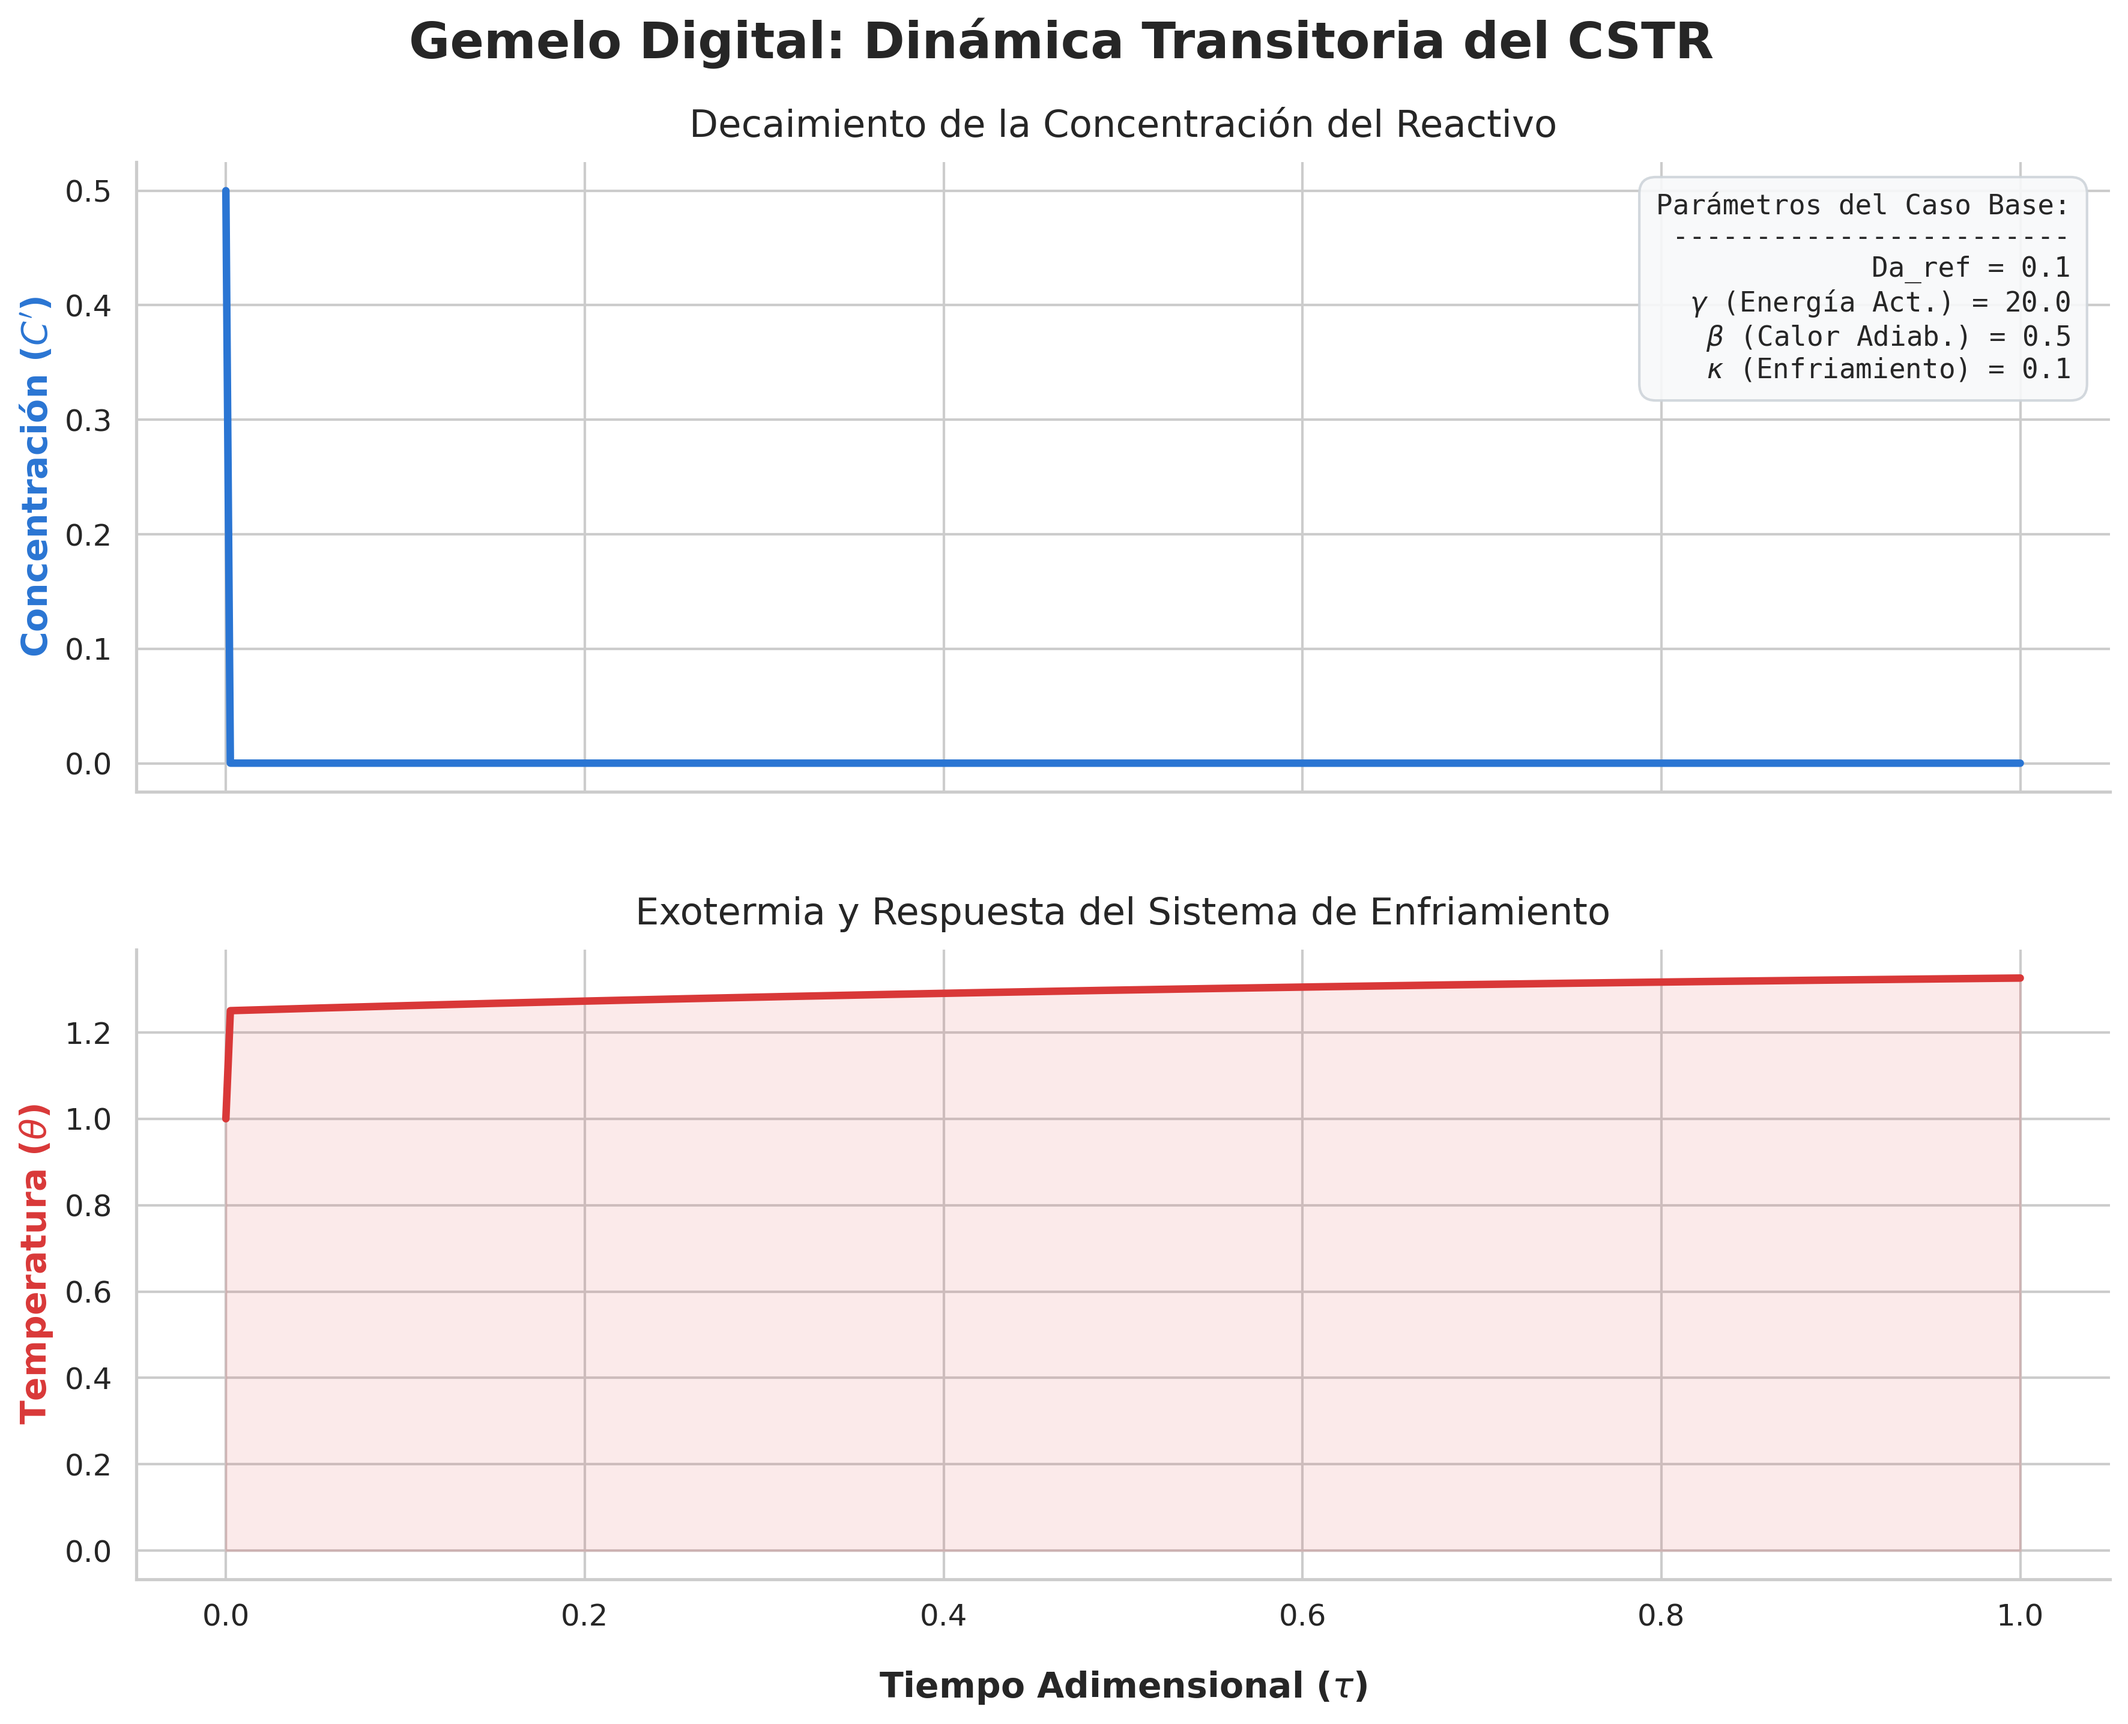
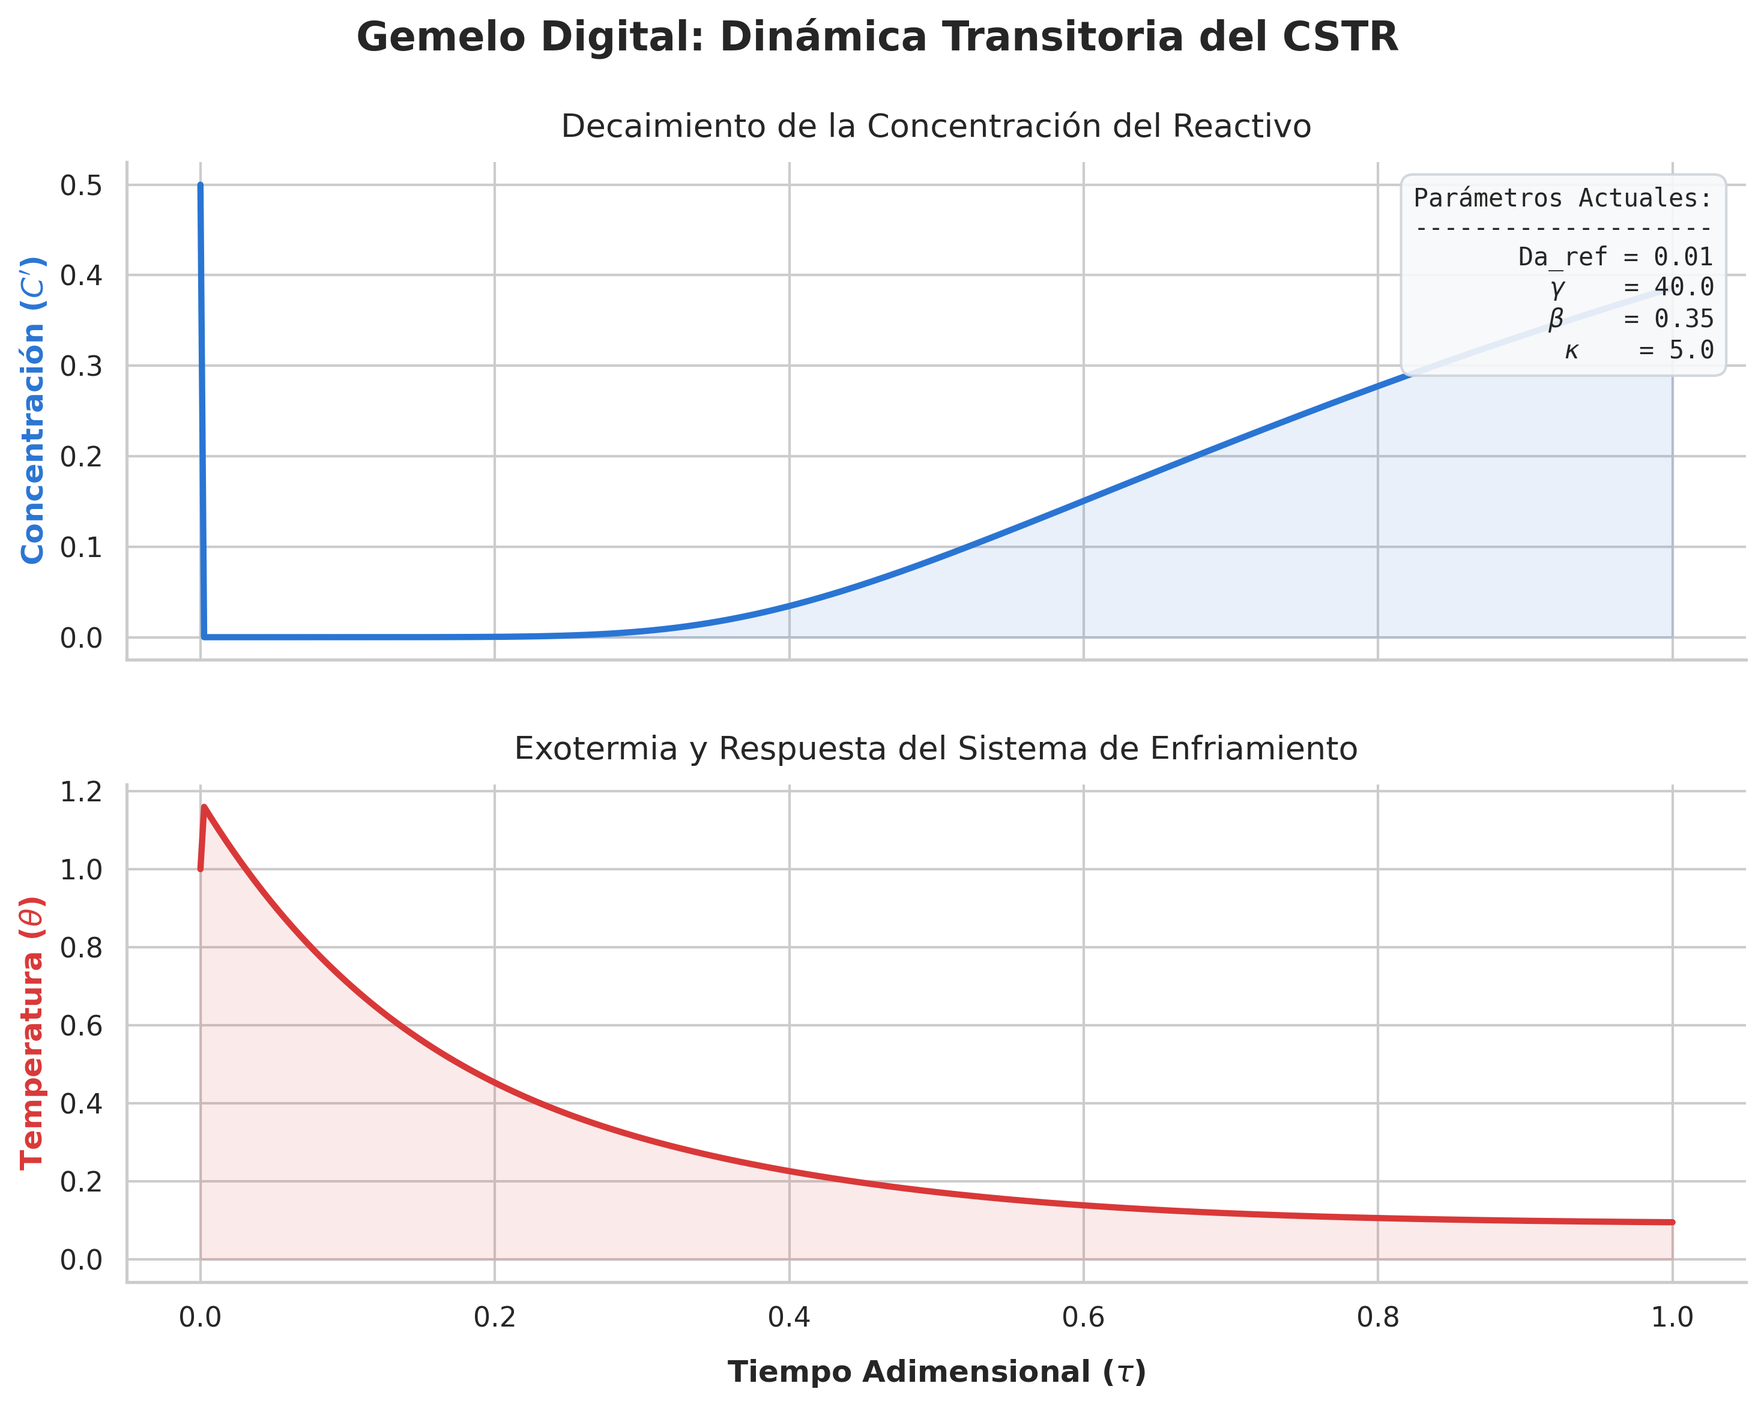
Modelo terminado para muestra publica

diff --git a/README.md b/README.md
@@ -1,0 +1,107 @@
+# 🏭 CSTR Digital Twin: Dynamic Simulation Engine
+
+Este repositorio contiene el motor de simulación dinámica (el "Gemelo Físico") de un Reactor de Mezcla Completa (CSTR) no isotérmico.
+
+Desarrollado en Python bajo una arquitectura orientada a objetos (OOP), este proyecto sirve como el modelo fundamental para la generación de datos sintéticos y el futuro entrenamiento de un Gemelo Digital basado en Machine Learning.
+
+![Dinámica del CSTR](cstr_dynamics_split_hd.png)
+
+---
+
+## 🛠 Arquitectura del Proyecto
+
+El código está estructurado en microservicios, separando la lógica matemática del integrador numérico y la configuración, asegurando alta escalabilidad.
+
+```text
+📦 DIGITAL_TWINS
+├── 📂 .devcontainer/        # Entorno Dockerizado y configuraciones de VS Code
+├── 📂 docs/                 # Documentación teórica y desarrollo matemático
+├── 📂 src/
+│   ├── 📂 common/
+│   │   └── 📄 config.json   # Archivo centralizado de parámetros y escenarios
+│   └── 📂 services/
+│       ├── 📄 config_manager.py     # Gestor de inyección de configuraciones
+│       ├── 📄 physics.py            # Clase con EDOs y cinética química
+│       └── 📄 simulation_service.py # Integrador numérico (scipy.integrate)
+├── 📄 main.ipynb            # Dashboard interactivo con ipywidgets y visualizaciones
+└── 📄 requirements.txt      # Dependencias (numpy, scipy, pandas, seaborn, etc.)
+```
+
+---
+
+## 🔬 Desarrollo Matemático del Modelo
+
+### Consideraciones Iniciales
+
+Se considera una reacción exotérmica elemental del tipo **A → B**.
+
+La velocidad de reacción viene dada por **r = k·C_A**.
+
+Se trabaja con un **modelo adimensional** para garantizar la estabilidad numérica de los solvers y facilitar el escalamiento industrial de los resultados:
+
+- **Concentración:** $C_A = C' \cdot C_{A0}$
+- **Tiempo:** $t = \tau \cdot \tau_{res}$
+- **Tiempo de residencia:** $\tau_{res} = V/q$
+- **Temperatura:** $T = T_{ref}(1 + \theta)$
+
+> Se asume que la temperatura de referencia ($T_{ref}$) es equivalente a la temperatura del refrigerante ($T_c$).
+
+---
+
+### Ecuaciones Dimensionales Originales
+
+**Balance de Masa:**
+
+$$\frac{dC_A}{dt} = \frac{q}{V}(C_{A0} - C_A) - kC_A$$
+
+**Balance de Energía:**
+
+$$\frac{dT}{dt} = \frac{q}{V}(T_0 - T) + \frac{-\Delta H_{rxn}}{\rho C_p} kC_A - \frac{UA}{V\rho C_p}(T - T_c)$$
+
+**Cinética (Arrhenius):**
+
+$$k = A \exp\left(\frac{-E_a}{RT}\right)$$
+
+---
+
+### Ecuaciones Adimensionadas del Simulador
+
+Para la implementación en código (`src/services/physics.py`), las ecuaciones se reducen a sus formas adimensionales fundamentales.
+
+**Balance de Masa Adimensional:**
+
+$$\frac{dC'}{d\tau} = 1 - C' - Da_0 \exp\left(\frac{-\gamma}{1+\theta}\right) C'$$
+
+**Balance de Energía Adimensional:**
+
+$$\frac{d\theta}{d\tau} = \theta_0 - \theta + \beta Da_0 \exp\left(\frac{-\gamma}{1+\theta}\right) C' - \kappa\theta$$
+
+**Número de Damköhler Efectivo (Arrhenius):**
+
+$$Da(\theta) = Da_0 \exp\left(\frac{-\gamma}{1+\theta}\right)$$
+
+---
+
+## 📊 Diccionario de Variables Adimensionales
+
+| Parámetro | Símbolo | Fórmula de Origen | Rango Típico | Significado Físico y Notas de Diseño |
+|---|---|---|---|---|
+| Concentración | $C'$ | $C' = C_A / C_{A0}$ | 0 a 1 | Fracción de reactivo remanente. 1 significa reactor lleno de reactivo puro; 0 significa conversión del 100%. |
+| Temperatura | $\theta$ | $\theta = (T - T_{ref}) / T_{ref}$ | 0 a 2 | Típicamente no supera el valor de 1 o 2 en fase líquida para evitar ebullición. Un θ muy alto indica descontrol térmico. |
+| Tiempo | $\tau$ | $\tau = t / \tau_{res}$ | 0 a 10 | Representa cuántas veces se ha renovado el volumen ($\tau_{res} = V/q$). El estado estacionario suele alcanzarse entre τ = 3 y 5. |
+| Energía de Activación | $\gamma$ | $\gamma = E_a / (RT_{ref})$ | 10 a 40 | Mide qué tan sensible es la reacción a los cambios de temperatura. Valores altos (> 30) disparan la reacción con poco calor. |
+| Calor Adiabático | $\beta$ | $\beta = -\Delta H \cdot C_{A0} / (\rho C_p T_{ref})$ | 0.1 a 1.0 | Representa cuánto subiría la temperatura si el reactor estuviera aislado. Valores > 0.5 requieren enfriamiento robusto. |
+| Enfriamiento | $\kappa$ | $\kappa = UA\tau_{res} / (V\rho C_p)$ | 0 a 5 | κ = 0 es un reactor adiabático. Valores entre 1 y 3 son comunes. κ > 5 aproxima a un comportamiento isotérmico. |
+| Damköhler (Pre-exp) | $Da_0$ | $Da_0 = k_0 \cdot \tau_{res}$ | $10^6$ a $10^{15}$ | Número gigantesco para compensar el término de Arrhenius. Representa la velocidad teórica máxima a temperatura infinita. |
+| Damköhler (Efectivo) | $Da_{ref}$ | $Da_{ref} = Da_0 \exp(-\gamma)$ | 0.01 a 10 | La velocidad real de reacción en $T_{ref}$. Si ronda entre 0.1 y 10, la reacción compite a la par con el flujo de entrada/salida. |
+
+---
+
+## 🚀 Cómo Empezar (Quick Start)
+
+Este proyecto está configurado para ejecutarse instantáneamente utilizando **Devcontainers (Docker)**. No necesitas instalar Python ni dependencias en tu máquina local.
+
+1. Clona este repositorio.
+2. Abre la carpeta en **Visual Studio Code**.
+3. Acepta la sugerencia de la ventana emergente: **Reopen in Container**.
+4. Abre el archivo `main.ipynb` y ejecuta todas las celdas para interactuar con los sliders del modelo en tiempo real.
